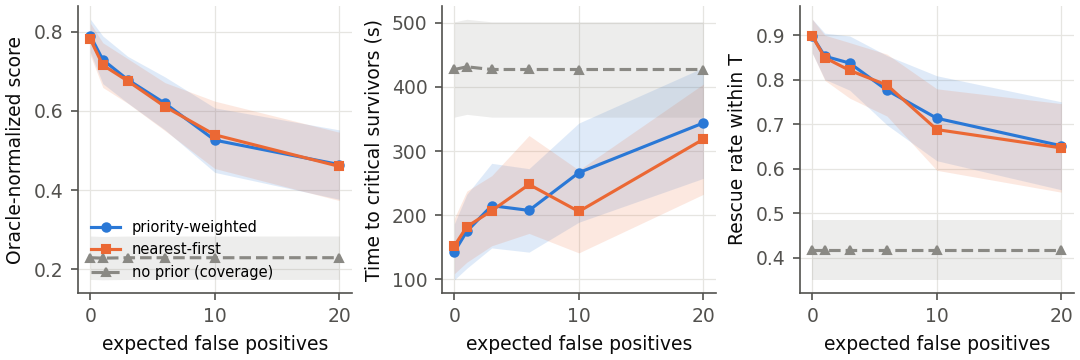
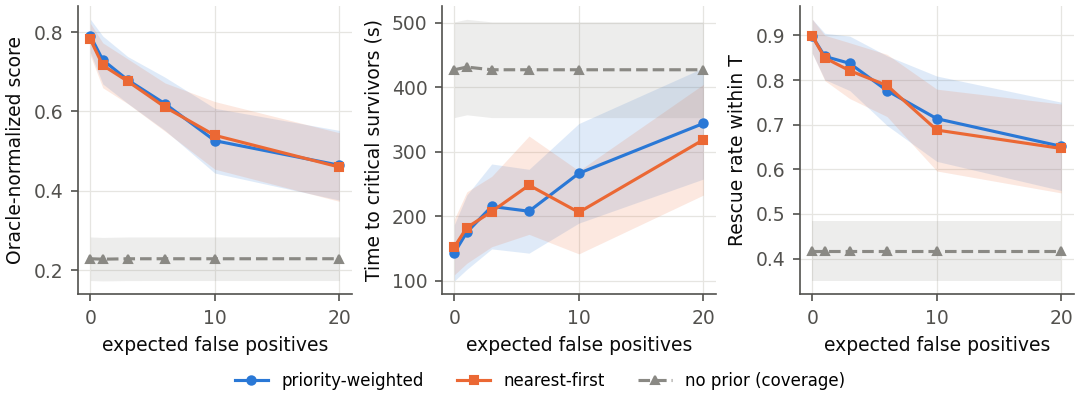
Update legends for metrics figures

Changed region(s): [[0.0, 0.0306, 1.0, 0.9778], [0.7028, 0.6722, 1.0, 0.8861], [0.4583, 0.0306, 0.6417, 0.0611]]

diff --git a/scripts/plot_results.py b/scripts/plot_results.py
@@ -30,7 +30,7 @@ METRICS = [("norm_score", "Oracle-normalized score", False),
 def sweep_figure(path, xkey, xlabel, out):
     rows = load_csv(path)
     xs = sorted({r[xkey] for r in rows})
-    fig, axes = plt.subplots(1, 3, figsize=(7.2, 2.4), constrained_layout=True)
+    fig, axes = plt.subplots(1, 3, figsize=(7.2, 2.7), constrained_layout=True)
     for ax, (metric, ylabel, _) in zip(axes, METRICS):
         for m, (color, marker, label) in STYLE.items():
             stats = [mean_ci([r[metric] for r in rows if r["method"] == m and r[xkey] == x]) for x in xs]
@@ -42,7 +42,9 @@ def sweep_figure(path, xkey, xlabel, out):
         ax.set_ylabel(ylabel)
         if xkey == "sigma_pos":
             ax.set_xscale("log")
-    axes[0].legend(frameon=False, fontsize=7, loc="lower left")
+    handles, labels = axes[0].get_legend_handles_labels()
+    fig.legend(handles, labels, frameon=False, fontsize=8, ncol=len(handles),
+               loc="outside lower center")
     fig.savefig(out)
     plt.close(fig)
 
